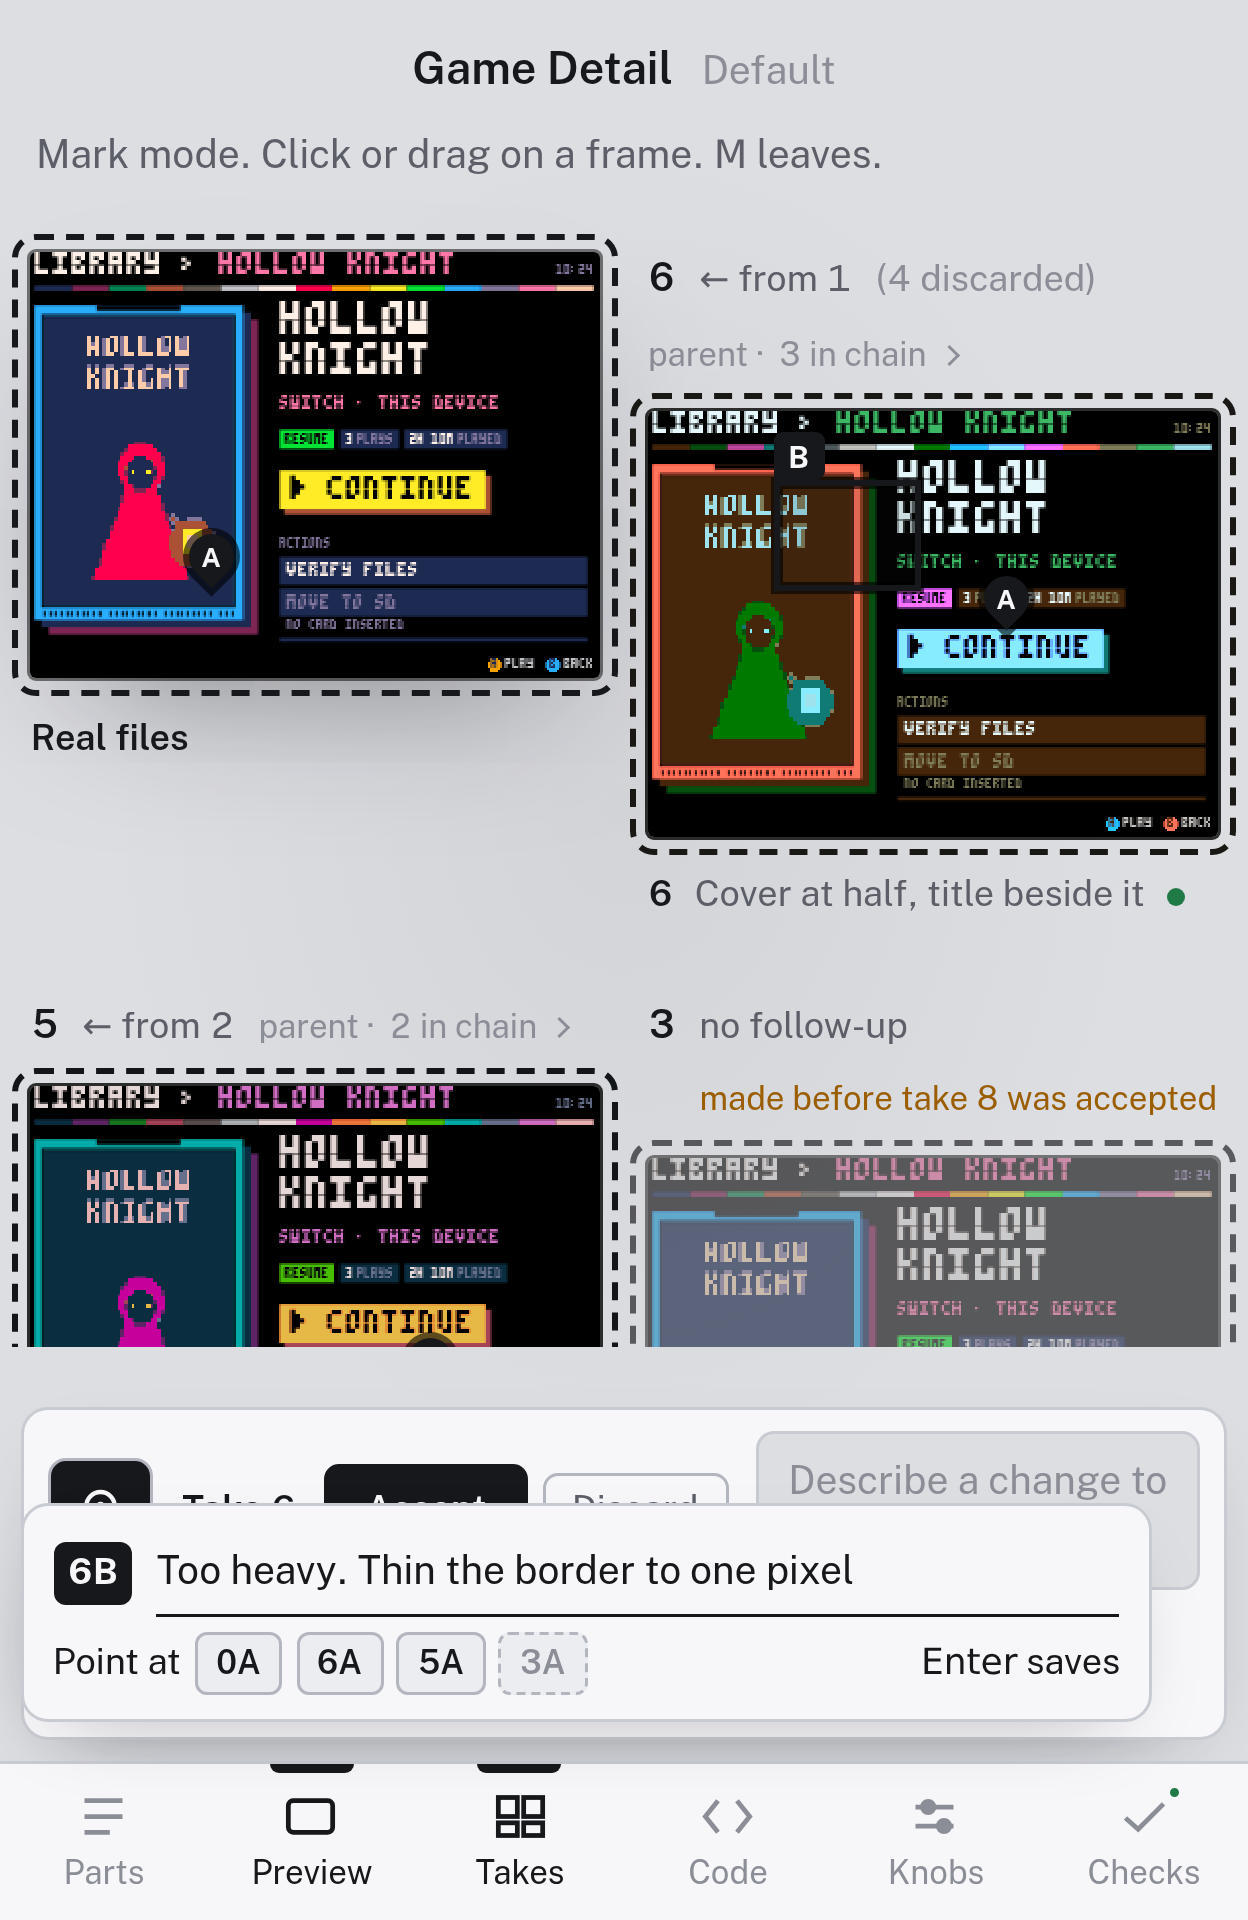
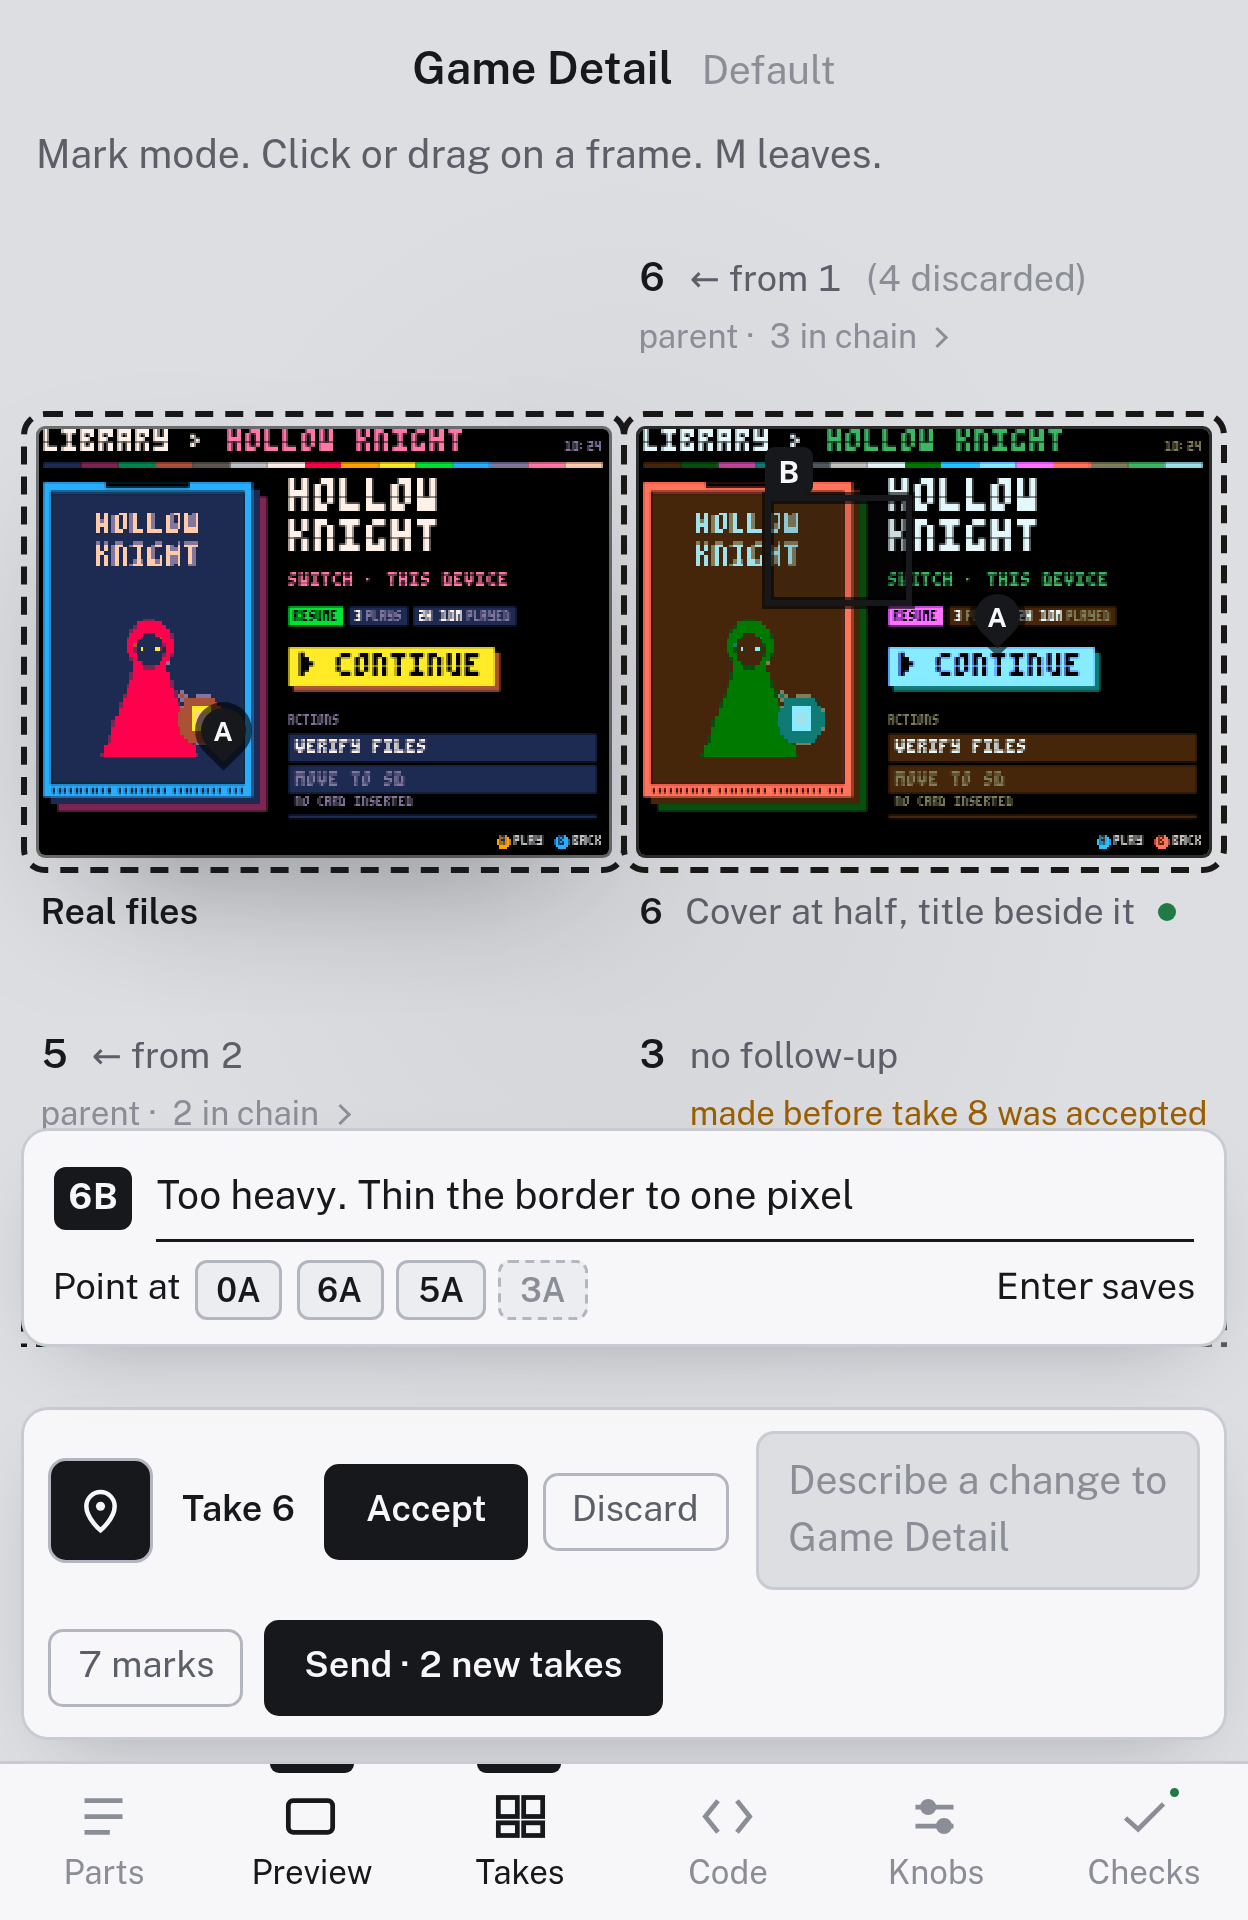
docs(design): Darkroom sixth pass: the takes canvas as one grid, frames aligned, one gap

diff --git a/docs/design/mockups/b.css b/docs/design/mockups/b.css
@@ -115,7 +115,7 @@ code { font-family: var(--mono); font-size: .92em; }
 /* states with no right panel centre in the room minus the parts panel */
 .app:is([data-state="takes"], [data-state="empty"], [data-state="mark"], [data-state="draft"], [data-state="agent"], [data-state="grid"], [data-state="error"], [data-state="checks"], [data-state="calibrate"]) .subject { left: calc(var(--free-l) + (100% - var(--free-l) - var(--gutter)) / 2); max-width: calc(100% - var(--free-l) - var(--gutter)); }
 .app:is([data-state="takes"], [data-state="empty"], [data-state="mark"], [data-state="draft"], [data-state="agent"], [data-state="grid"], [data-state="error"], [data-state="checks"], [data-state="calibrate"]) .p-side { display: none; }
-.app:is([data-state="takes"], [data-state="empty"], [data-state="mark"], [data-state="draft"], [data-state="grid"], [data-state="agent"]) .subject { top: 45%; }
+.app:is([data-state="takes"], [data-state="empty"], [data-state="mark"], [data-state="draft"], [data-state="grid"], [data-state="agent"]) .subject { top: 45%; width: calc(100% - var(--free-l) - var(--gutter)); max-width: none; }
 .app[data-state="draft"] .subject { top: 4rem; transform: translate(-50%, 0); }
 
 .title { display: flex; align-items: baseline; gap: .6rem; font-size: var(--fs-2); color: var(--ink-3); }
@@ -139,12 +139,14 @@ code { font-family: var(--mono); font-size: .92em; }
 .app[data-state="empty"] .s-takes .title .mark-only { display: none; }
 
 /* takes on the canvas: the original, then each chain as a before-and-after pair */
-.s-takes, .s-grid, .s-agent { gap: 1.4rem; justify-items: center; width: 100%; }
+.s-takes, .s-grid, .s-agent { gap: 1.4rem; width: 100%; justify-items: center; width: 100%; }
 .s-agent { display: none; }
 .app[data-state="agent"] .s-agent { display: grid; }
 .app[data-state="agent"] .s-single { display: none; }
-.frames { display: flex; flex-wrap: wrap; justify-content: center; gap: 2.6rem 3rem; max-width: 100%; align-items: start; padding-top: .4rem; }
-.fr { margin: 0; display: grid; gap: .7rem; justify-items: start; position: relative; width: calc(var(--mm) * 72); }
+/* every frame is one column of the same width. The grid has two rows per band:
+   a head row that every chain shares, and a frame row. One gap everywhere. */
+.frames { --col: calc(var(--mm) * 72); --gap: 2.5rem; display: grid; grid-template-columns: repeat(auto-fit, var(--col)); grid-auto-rows: auto; justify-content: center; column-gap: var(--gap); row-gap: 0; max-width: 100%; }
+.fr { margin: 0; display: grid; gap: .7rem; align-content: start; justify-items: start; position: relative; width: var(--col); }
 .fr .screen { box-shadow: 0 0 0 1px rgba(0,0,0,.8); }
 .fr.orig .screen { box-shadow: var(--glow); }
 .fr figcaption { font-size: var(--fs-1); color: var(--ink-2); display: flex; gap: .45rem; align-items: center; width: 100%; }
@@ -159,29 +161,36 @@ code { font-family: var(--mono); font-size: .92em; }
 .fr .screen.v5 { filter: contrast(1.2) brightness(.75); }
 .fr .screen.t2 { filter: hue-rotate(160deg); }
 
-/* a chain: head, optional history strip, then the pair */
-.chain { display: grid; gap: .7rem; }
-.chain-head { display: flex; gap: .5rem; align-items: baseline; font-size: var(--fs-1); color: var(--ink-2); }
+/* a chain spans two columns and contributes to both rows of its band */
+.chain { display: grid; grid-template-columns: subgrid; grid-column: span 2; grid-row: span 2; grid-template-rows: subgrid; }
+.chain.one { grid-column: span 1; }
+.frames > .fr.orig { grid-row: 2; }
+.s-grid .frames > .fr { grid-row: auto; }           /* the original has no head: it starts on the frame row */
+.chain-head { grid-column: 1 / -1; grid-row: 1; display: flex; gap: .5rem; align-items: baseline; font-size: var(--fs-1); color: var(--ink-2); padding-bottom: .7rem; }
 .chain-head b { color: var(--ink); font-weight: 600; font-size: var(--fs-2); }
 .chain-head .from { color: var(--ink-2); }
 .chain-head .dim { color: var(--ink-3); }
 .chain-head .hist { margin-left: auto; border: 0; background: none; color: var(--ink-3); font-size: 11px; padding: 0; display: inline-flex; align-items: center; gap: .3rem; }
-/* a drawn chevron: 5 px, centred on the x-height, the same everywhere */
 .chev { display: inline-block; width: 5px; height: 5px; border: solid currentColor; border-width: 1.5px 1.5px 0 0; transform: rotate(45deg); flex: none; }
 [aria-expanded="true"] .chev, [open] > summary .chev { transform: rotate(135deg); }
-.history[hidden] { display: none; }
 .chain-head .flag { margin-left: auto; color: var(--warn); font-size: 11px; }
 .chain.flagged .fr .screen { opacity: .6; }
-.history { display: flex; gap: .4rem; align-items: center; font-size: 11px; color: var(--ink-3); }
+.history { grid-column: 1 / -1; grid-row: 1; align-self: end; margin-bottom: 2rem; display: flex; gap: .4rem; align-items: center; font-size: 11px; color: var(--ink-3); }
+.history[hidden] { display: none; }
 .history .step { display: inline-flex; gap: .3rem; align-items: center; color: var(--ink-2); }
 .history .step i { width: 28px; aspect-ratio: 4/3; background: #000 center / cover; border-radius: 2px; box-shadow: 0 0 0 1px rgba(0,0,0,.7); }
 .history .step.now { color: var(--ink); font-weight: 600; }
 .history .step.gone { opacity: .5; } .history .step.gone i { filter: grayscale(1); }
 .history .step s { font-weight: 400; }
-.pair { display: flex; gap: 1.25rem; align-items: start; }
+.pair { grid-column: 1 / -1; grid-row: 2; display: grid; grid-template-columns: subgrid; align-items: start; }
+/* a band ends with the gap; the next band's head row follows */
+.frames > * + .chain, .frames > .chain ~ .fr.orig { }
+.frames { row-gap: 0; }
+.frames > * { margin-bottom: var(--gap); }
+.frames { padding: 0 var(--gap); }
 
 /* marks: a lettered pin for a click, a region for a drag. Named by take and letter. */
-.marks { position: absolute; top: 0; left: 0; width: calc(var(--mm) * 72); aspect-ratio: 4/3; pointer-events: none; }
+.marks { position: absolute; top: 0; left: 0; width: var(--col, calc(var(--mm) * 72)); aspect-ratio: 4/3; pointer-events: none; }
 .pin { position: absolute; width: 18px; height: 18px; margin: -9px 0 0 -9px; border-radius: 50% 50% 50% 0; transform: rotate(-45deg); background: var(--accent); color: var(--accent-ink); box-shadow: 0 0 0 2px rgba(0,0,0,.6); display: grid; place-items: center; font: 700 10px/1 var(--sans); }
 .pin span { transform: rotate(45deg); }
 .pin.lost { background: var(--card); color: var(--ink-3); border: 1px dashed var(--ink-3); box-shadow: none; }
@@ -190,7 +199,7 @@ code { font-family: var(--mono); font-size: .92em; }
 .marks.model .pin, .marks.model .region { --accent: #fff; --accent-ink: #000; }
 
 /* the note editor, opened at the newest mark */
-.editor { position: absolute; left: 0; width: calc(var(--mm) * 72 + 6rem); top: calc(100% + .3rem); z-index: 2; background: var(--card); border-radius: 8px; box-shadow: var(--lift); padding: .5rem .6rem; display: grid; grid-template-columns: auto 1fr; gap: .35rem .5rem; align-items: center; font-size: var(--fs-1); }
+.editor { position: absolute; left: 0; width: calc(var(--col) + 6rem); top: calc(100% + .6rem); z-index: 2; background: var(--card); border-radius: 8px; box-shadow: var(--lift); padding: .5rem .6rem; display: grid; grid-template-columns: auto 1fr; gap: .35rem .5rem; align-items: center; font-size: var(--fs-1); }
 .editor .id { font-weight: 700; color: var(--accent-ink); background: var(--accent); border-radius: 4px; padding: 2px 5px; }
 .editor input { border: 0; border-bottom: 1px solid var(--edge-2); background: none; padding: .3rem 0; color: var(--ink); font-size: var(--fs-2); }
 .editor input:focus { outline: 0; border-bottom-color: var(--accent); }
@@ -204,6 +213,7 @@ code { font-family: var(--mono); font-size: .92em; }
 .mark-only { display: none; }
 .app[data-mark="on"] .mark-only { display: inline; }
 .app[data-mark="on"] .fr .screen { cursor: crosshair; outline: 2px dashed var(--accent); outline-offset: 4px; }
+.app[data-state="mark"] .frames > .chain:has(.editor) { margin-bottom: calc(var(--gap) + 4.4rem); }
 .app[data-mark="on"] .fr.focus .screen { box-shadow: 0 0 0 1px rgba(0,0,0,.8); }
 .app[data-mark="on"] .markbtn { background: var(--accent); color: var(--accent-ink); }
 .markbtn { width: 2.2rem; height: 2.2rem; border: 1px solid var(--edge-2); border-radius: 6px; background: none; color: var(--ink-2); display: grid; place-items: center; }
@@ -414,16 +424,18 @@ input[type="range"]::-webkit-slider-thumb { -webkit-appearance: none; width: 14p
   .caption .devices { order: -1; flex-basis: 100%; justify-content: center; width: max-content; margin: 0 auto; }
   .caption .scaled { flex-basis: 100%; text-align: center; }
   .frames { gap: .7rem .6rem; padding: 0 .5rem; }
-  .fr, .fr .screen, .marks { width: calc(var(--mm) * 72 * .68); }
+  .fr .screen { width: var(--col); }
   .pin { width: 15px; height: 15px; margin: -7.5px 0 0 -7.5px; font-size: 9px; }
   /* small: newest take only; the parent is one tap away (decision 11) */
-  .chain { width: calc(var(--mm) * 72 * .68); }
+  .frames { --col: calc(var(--mm) * 72 * .68); --gap: 1.2rem; }
+  .chain { grid-column: span 1; }
   .pair .fr.parent { display: none; }
-  .chain-head { flex-wrap: wrap; }
-  .chain-head .hist { margin-left: 0; }
+  .chain-head { flex-wrap: wrap; row-gap: .15rem; }
+  .chain-head .hist { margin-left: 0; flex-basis: 100%; }
   .chain-head .hist::before { content: "parent · "; }
   .history { display: none; }
-  .editor { position: fixed; left: .5rem; right: .5rem; bottom: 4.2rem; top: auto; z-index: 5; }
+  .editor { position: fixed; left: .5rem; right: .5rem; width: auto; bottom: calc(8.6rem + 3.4rem + env(safe-area-inset-bottom)); top: auto; z-index: 5; }
+  .app[data-state="mark"] .frames > .chain:has(.editor) { margin-bottom: var(--gap); }
   .agent { grid-template-columns: 1fr; }
   .agent .shot { justify-items: center; }
   .agent .shot .marks { left: 50%; transform: translateX(-50%); }
@@ -445,7 +457,6 @@ input[type="range"]::-webkit-slider-thumb { -webkit-appearance: none; width: 14p
   .dthumb .pin { width: 13px; height: 13px; margin: -6.5px 0 0 -6.5px; font-size: 8px; }
   .dhead { flex-wrap: wrap; }
   .dhead .dim, .dhead .will { margin-left: 0; flex-basis: 100%; }
-  .frames { gap: 1.6rem 1rem; }
   .title .mark-only { flex-basis: 100%; margin: 0; }
   .title { flex-wrap: wrap; padding: 0 .75rem; justify-content: center; }
   .p-side, .p-code { left: 0; right: 0; bottom: 0; top: auto; width: auto; height: 40%; border-radius: 14px 14px 0 0; }

diff --git a/docs/design/mockups/index.html b/docs/design/mockups/index.html
@@ -24,7 +24,7 @@
 </style>
 </head>
 <body>
-<h1>Caliper: Darkroom, fifth pass</h1>
+<h1>Caliper: Darkroom, sixth pass</h1>
 <p>The room is dark and the device is the only lit thing in it. There is no accent hue: the product is the only colour on screen, and selection, focus and the live knob use ink. Takes live on the canvas as chains: the real files, then each chain as a before-and-after pair. You mark a take with lettered pins and regions (<code>docs/plans/take-markup.md</code>), and one Send makes the next take of every marked chain. In light mode the room becomes a lightbox. Each state below is the same page with <code>?state=</code>; open it on this phone to see it at real size in your system's colour scheme.</p>
 <dl><dt>Type</dt><dd>Public Sans, tabular numerals, no mono except code and CSS names</dd><dt>Dark</dt><dd>room #121316, card #1C1D21, ink #ECECEE</dd><dt>Light</dt><dd>room #DDDEE2, card #F7F7F9, ink #17181C</dd><dt>Alternative</dt><dd>one cool accent, <a href="b-darkroom.html?state=takes&accent=sky">?accent=sky</a>, kept only for comparison</dd></dl>
 <nav>

diff --git a/docs/design/mockups/b-darkroom.html b/docs/design/mockups/b-darkroom.html
@@ -126,7 +126,7 @@
             </div>
           </div>
 
-          <div class="chain flagged">
+          <div class="chain flagged one">
             <div class="chain-head"><b>3</b><span class="from">no follow-up</span><span class="flag">made before take 8 was accepted</span></div>
             <div class="pair">
               <figure class="fr" data-take="3">

diff --git a/docs/design/mockups/parts/subject.html b/docs/design/mockups/parts/subject.html
@@ -67,7 +67,7 @@
             </div>
           </div>
 
-          <div class="chain flagged">
+          <div class="chain flagged one">
             <div class="chain-head"><b>3</b><span class="from">no follow-up</span><span class="flag">made before take 8 was accepted</span></div>
             <div class="pair">
               <figure class="fr" data-take="3">

diff --git a/docs/design/mockups/README.md b/docs/design/mockups/README.md
@@ -20,6 +20,12 @@ dark.
 | Checks modal: less slop | Donut, badge pills and footer copy removed. One total line, then a glyph column (tick, cross, dash) per group. Failed group first with its reason inline. |
 | Knobs: show, do not tell | Sliders for numbers. The whole 16-colour palette is the control for a colour. A container threshold is a bar with the threshold mark and a "now" line for the part's current size. Only the live knob shows its source path. Skipped outputs fold into one line. |
 
+## Sixth pass: the canvas as one grid
+
+Red mark: the original's top edge sat lower than the chains' frames, because each chain was a free flex item with its own head. Orange: the gap inside a pair (1.25 rem) was half the gap between chains (3 rem), so pairs read as glued.
+
+The takes canvas is now one CSS grid. Every frame is one column of the same width. Each band has two rows: a head row that every chain shares, and a frame row. The original has no head, so it starts on the frame row and its top edge lines up with every other frame. A chain spans two columns with subgrid, so the gap inside a pair is the same `--gap` (2.5 rem) as the gap between chains. The history strip and the note editor both sit inside the band so nothing overlaps the next one.
+
 ## Fifth pass: three marks
 
 | Mark | Feedback | Change |
